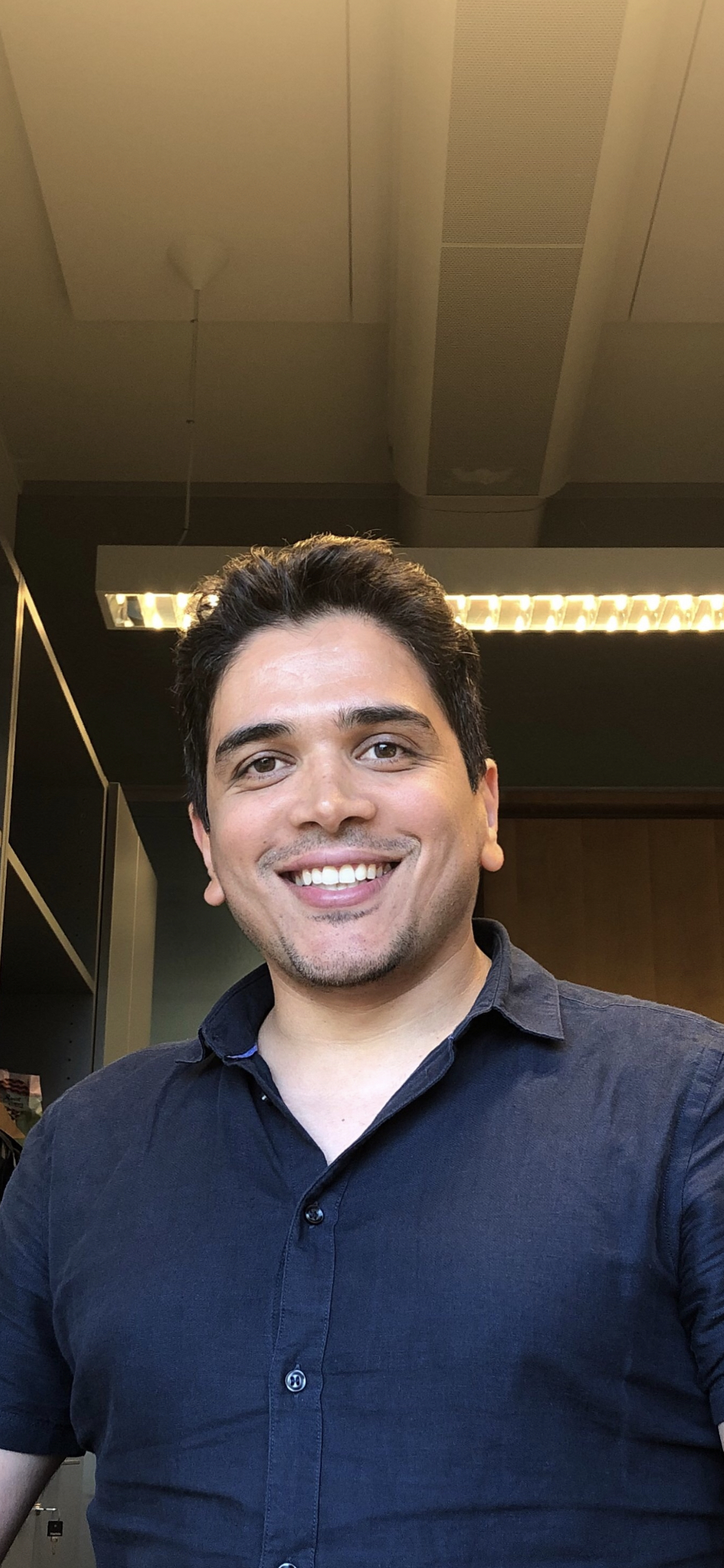
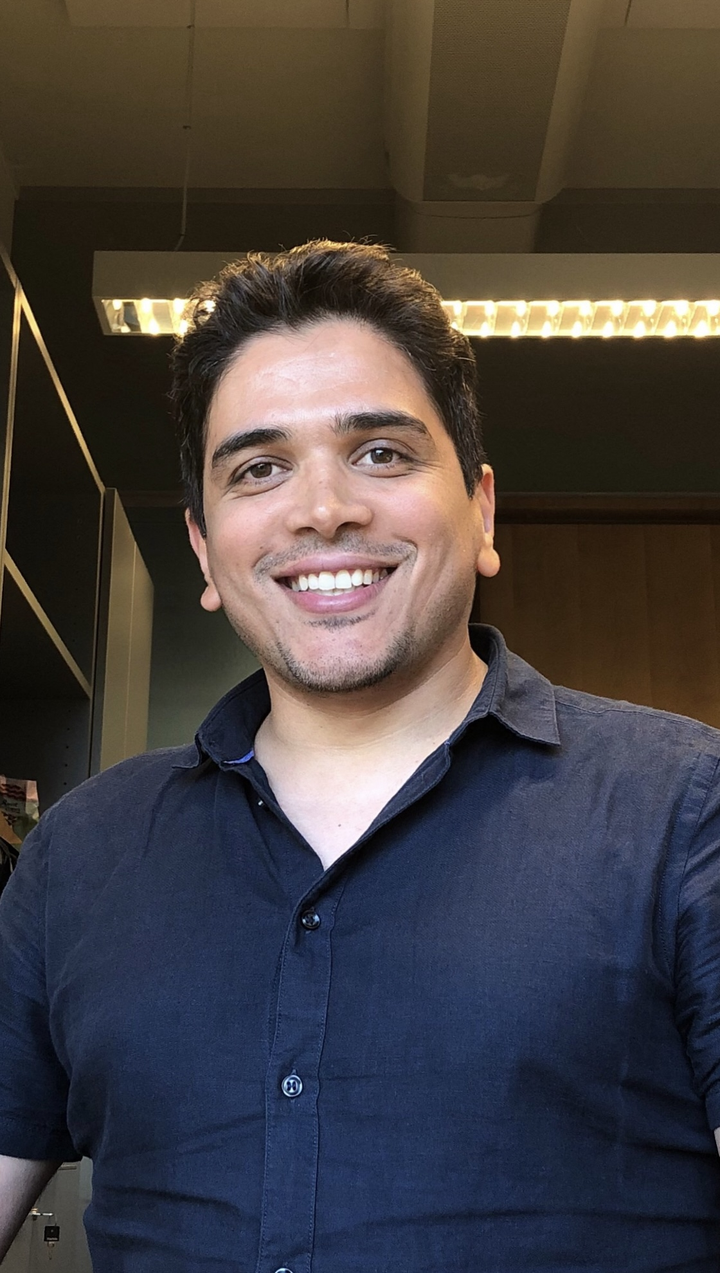
Changed Photo and response index page

diff --git a/index.html b/index.html
@@ -4,17 +4,7 @@
     <meta charset="UTF-8">
     <meta name="viewport" content="width=device-width, initial-scale=1.0">
     <title>Mostafa Goudarzi's Website</title>
-    <style>
-        body { font-family: Arial, sans-serif; line-height: 1.6; margin: 0; padding: 0; }
-        .container { width: 80%; margin: auto; overflow: hidden; }
-        header { border-bottom: 1px solid #333; padding: 20px 0; margin-bottom: 20px; }
-        nav ul { padding: 0; list-style: none; }
-        nav ul li { display: inline; margin-right: 10px; }
-        nav ul li a { text-decoration: none; color: #333; }
-        .content { display: flex; align-items: center; justify-content: space-between; }
-        .text { width: 60%; }
-        .profile-pic { width: 300px; height: auto; border-radius: 50%; }
-    </style>
+    <link rel="stylesheet" href="styles.css">
     <!-- Google Analytics -->
     <script async src="https://www.googletagmanager.com/gtag/js?id=G-M89CDC387M"></script>
     <script>
@@ -36,7 +26,7 @@
                 </ul>
             </nav>
         </header>
-        <div class="content">
+        <div class="content clearfix">
             <div class="text">
                 <p>Hello! I am a Postdoctoral Researcher in the Finance & Business Analytics Group and Ramp-Up Manager at Viipuri Lab, LUT Business School, Finland. My current research focuses on understanding trade behavior in sequential trading with a specific interest in herd behavior. I aim to replicate this behavior in an AI trader and study the trade dynamics in a system that includes this AI trader, using a complex systems approach.</p>
                 <p>For more information, please check my <a href="cv.html">CV</a> or do not hesitate to contact me via email at <a href="mailto:mostafa.goudarzi@lut.fi">mostafa.goudarzi@lut.fi</a>.</p>

diff --git a/styles.css b/styles.css
@@ -91,11 +91,23 @@ a:hover {
 }
 
 .profile-pic {
-    float: right;
-    width: 150px;
-    height: 150px;
+    width: 230px;
+    height: 400px; /* Adjust height to make the image oval */
     border-radius: 50%;
     margin-left: 20px;
+    object-fit: cover;
+}
+
+.content {
+    display: flex;
+    align-items: center;
+    justify-content: space-between;
+    flex-wrap: wrap;
+}
+
+.text {
+    flex: 1 1 60%;
+    min-width: 300px;
 }
 
 .clearfix::after {
